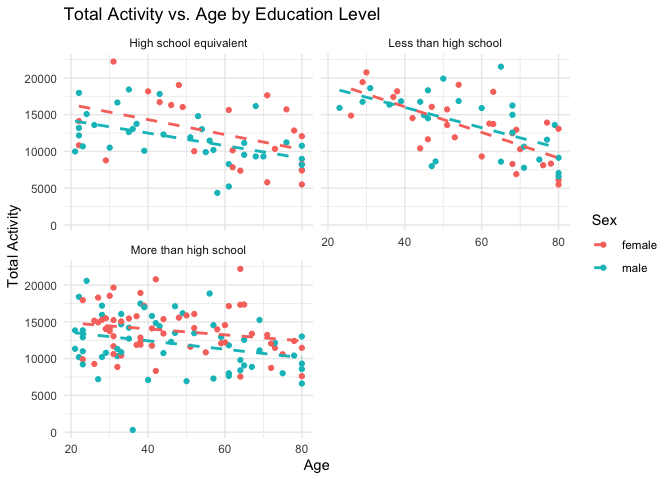
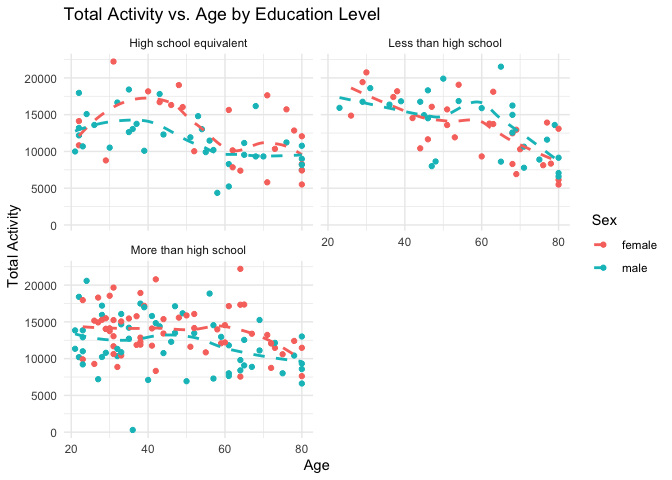
add comments on plots and revise some mistakes in previous part

diff --git a/p8105_hw3_sc5078.md b/p8105_hw3_sc5078.md
@@ -265,10 +265,10 @@ nhanes_accel = read.csv("./data/nhanes_accel.csv") |>
     min1:min1440,
     names_to = "minute", 
     names_prefix = "min",
-    values_to = "min") |>
+    values_to = "mims") |>
   mutate(
     minute = as.numeric(minute),
-    min = as.numeric(min)
+    mims = as.numeric(mims)
   )
 ```
 
@@ -309,17 +309,27 @@ education category.
 
 ``` r
 nhanes |>
-  janitor::tabyl(education, sex)
+  group_by(sex, education)|>
+  summarize(n_obs = n_distinct(seqn))|>
+  pivot_wider(
+    names_from = education,
+    values_from = n_obs
+  )|>
+  knitr::kable()
 ```
 
-    ##               education female  male
-    ##  High school equivalent  33120 50400
-    ##   Less than high school  40320 38880
-    ##   More than high school  84960 80640
+    ## `summarise()` has grouped output by 'sex'. You can override using the `.groups`
+    ## argument.
 
-There are more male (50400) have high school equivalent education level
-than female (33120). There are more female have less than high school
-education or more than high school education than male.
+| sex    | High school equivalent | Less than high school | More than high school |
+|:-------|-----------------------:|----------------------:|----------------------:|
+| female |                     23 |                    28 |                    59 |
+| male   |                     35 |                    27 |                    56 |
+
+There are more male having high school equivalent education level than
+female. There are more female have less than high school education or
+more than high school education than male. For both male and female,
+most of people having more than high school education.
 
 Create a visualization of the age distributions for men and women in
 each education category.
@@ -335,10 +345,11 @@ nhanes |>
        fill = "Sex")
 ```
 
-![](p8105_hw3_sc5078_files/figure-gfm/unnamed-chunk-9-1.png)<!-- --> The
-age distribution between female and male is similar in the “less than
-high school” and “More than high school” education group. However, for
-the “High school equivalent” education level, females would have a
+![](p8105_hw3_sc5078_files/figure-gfm/unnamed-chunk-9-1.png)<!-- -->
+
+The age distribution between female and male is similar in the “less
+than high school” and “More than high school” education group. However,
+for the “High school equivalent” education level, females would have a
 higher maximum age, minimum age, and average age than males. For
 females, “High school equivalent” education level has the highest mean
 age, 57.39, while “More than high school” education level has the lowest
@@ -352,10 +363,10 @@ participant. Plot these total activities (y-axis) against age (x-axis).
 ``` r
 nhanes |>
   group_by(seqn, age, sex, education) |>
-  summarize(total_activity = sum(min)) |>
+  summarize(total_activity = sum(mims)) |>
   ggplot(aes(x = age, y = total_activity, color = sex)) +
   geom_point() +
-  geom_smooth(method = "lm", se = FALSE, aes(group = sex), linetype = 2) +
+  geom_smooth(se = FALSE, aes(group = sex), linetype = 2) +
   facet_wrap(~ education, nrow = 2) +
   labs(title = "Total Activity vs. Age by Education Level",
        x = "Age",
@@ -366,7 +377,7 @@ nhanes |>
 
     ## `summarise()` has grouped output by 'seqn', 'age', 'sex'. You can override
     ## using the `.groups` argument.
-    ## `geom_smooth()` using formula = 'y ~ x'
+    ## `geom_smooth()` using method = 'loess' and formula = 'y ~ x'
 
 ![](p8105_hw3_sc5078_files/figure-gfm/unnamed-chunk-10-1.png)<!-- -->
 
@@ -377,18 +388,21 @@ smooth trends may help identify differences.
 
 ``` r
 nhanes |>
-  group_by(sex, age, minute) |>
-  ggplot(aes(x = minute, y = min, color = sex)) +
+  group_by(sex, education, minute) |>
+  summarise(mims_mean = mean(mims)) |>
+  ggplot(aes(x = minute, y = mims_mean, color = sex)) +
   geom_point() +
-  geom_smooth(method = "lm", se = FALSE, aes(group = sex), linetype = 2) +
+  geom_smooth(se = FALSE, aes(group = sex), linetype = 2) +
   facet_wrap(~ education, nrow = 2) +
   labs(title = "24-hour activity time courses by Education Level",
        x = "Minute",
-       y = "Min",
+       y = "Mims",
        color = "Sex") +
   theme_minimal()
 ```
 
-    ## `geom_smooth()` using formula = 'y ~ x'
+    ## `summarise()` has grouped output by 'sex', 'education'. You can override using
+    ## the `.groups` argument.
+    ## `geom_smooth()` using method = 'gam' and formula = 'y ~ s(x, bs = "cs")'
 
 ![](p8105_hw3_sc5078_files/figure-gfm/unnamed-chunk-11-1.png)<!-- -->
